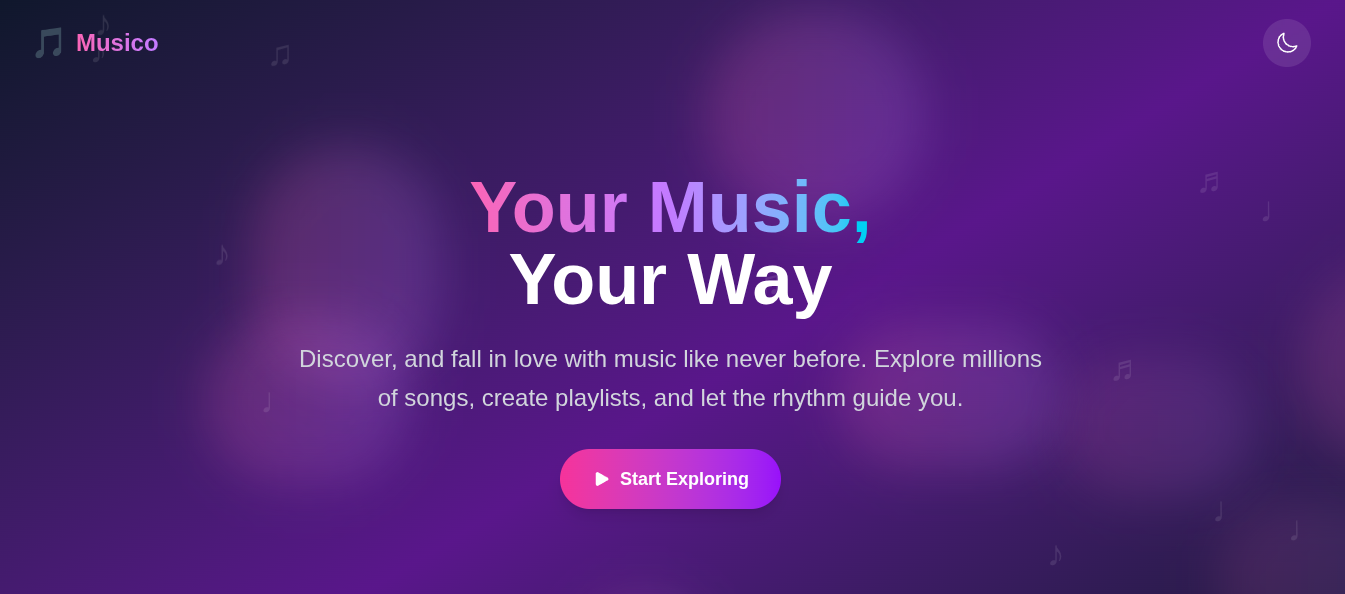
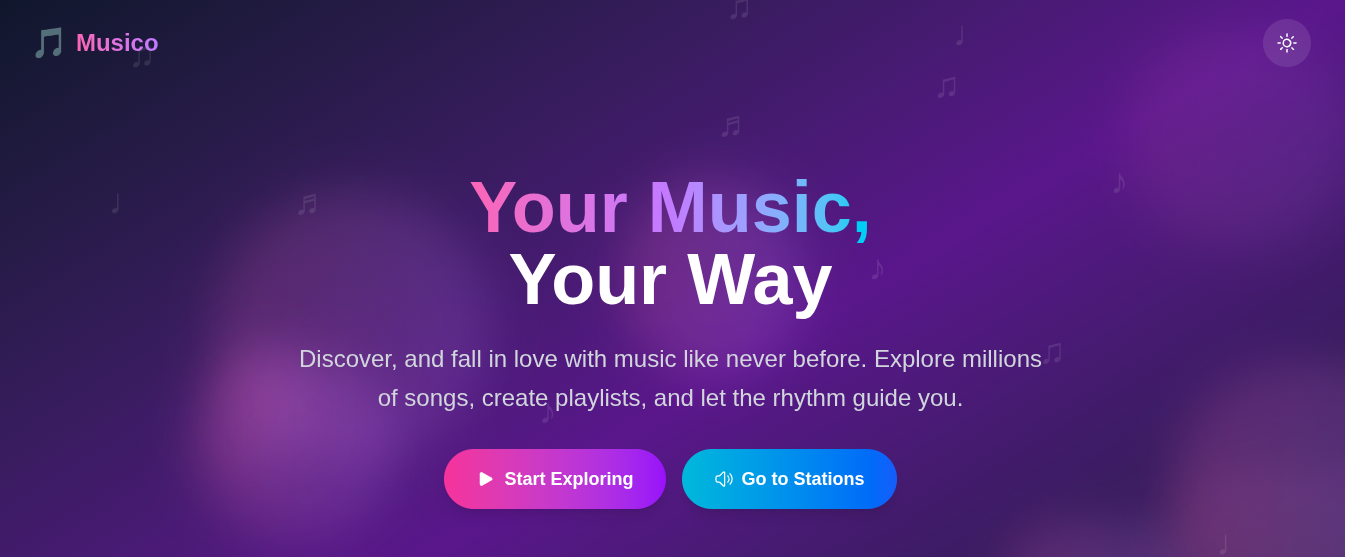
Update Musico project: Add music streaming stations feature
- Updated title to 'Musico - Music Streaming & Information Platform'
- Enhanced description to include streaming stations functionality
- Added music streaming and stations to tags
- Updated features, challenges, and solutions to reflect streaming capabilities
- Improved long description to mention streaming stations

diff --git a/src/components/ProjectsSection.tsx b/src/components/ProjectsSection.tsx
@@ -457,11 +457,11 @@ export default function ProjectsSection() {
     },
     {
       id: 10,
-      title: 'Musico - Song Information Getter',
+      title: 'Musico - Music Streaming & Information Platform',
       category: 'Web Development',
-      description: 'A powerful song information retrieval tool that fetches comprehensive music data, lyrics, artist details, and album information from various music APIs.',
-      longDescription: 'Musico is a comprehensive song information application that allows users to search and retrieve detailed information about songs, artists, and albums. It integrates with multiple music APIs to provide album details, and related music recommendations in an elegant, user-friendly interface.',
-      tags: ['React', 'Music API', 'Song Info', 'JavaScript', 'API Integration'],
+      description: 'A comprehensive music platform featuring streaming stations, song information retrieval, lyrics, artist details, and album information from various music APIs.',
+      longDescription: 'Musico is a comprehensive music platform that combines streaming capabilities with detailed song information. Users can stream music through various stations while accessing comprehensive data about songs, artists, and albums. It integrates with multiple music APIs to provide lyrics, artist biographies, album details, and related music recommendations in an elegant, user-friendly interface.',
+      tags: ['React', 'Music API', 'Song Info', 'JavaScript', 'API Integration', 'Music Streaming', 'Stations'],
       images: ['/projects/musico-1.jpg', '/projects/musico-2.jpg', '/projects/musico-3.jpg'],
       mockup: '/projects/musico-mockup.jpg',
       video: '/projects/musico-demo.mp4',
@@ -472,23 +472,27 @@ export default function ProjectsSection() {
       challenges: [
         'Integrating multiple music data APIs',
         'Handling diverse music metadata formats',
-        'Creating intuitive search and display interface'
+        'Creating intuitive search and display interface',
+        'Implementing music streaming stations'
       ],
       solutions: [
         'Built unified API abstraction layer for multiple services',
         'Implemented data normalization and caching system',
-        'Designed clean, responsive interface with rich media display'
+        'Designed clean, responsive interface with rich media display',
+        'Added streaming station functionality with audio controls'
       ],
       features: [
         'Comprehensive song and artist search',
         'Album and artist information',
-        'Music recommendations and related tracks'
-        ],
+        'Music recommendations and related tracks',
+        'Music streaming stations',
+        'Audio playback controls'
+      ],
       techStack: {
         frontend: ['React', 'JavaScript', 'CSS3', 'Music APIs'],
         backend: ['Node.js', 'Express.js', 'Redis'],
         database: ['MongoDB'],
-        features: ['API Integration', 'Lyrics Display'],
+        features: ['API Integration', 'Lrics Display', 'Music Streaming'],
         deployment: ['Netlify']
       }
     }
